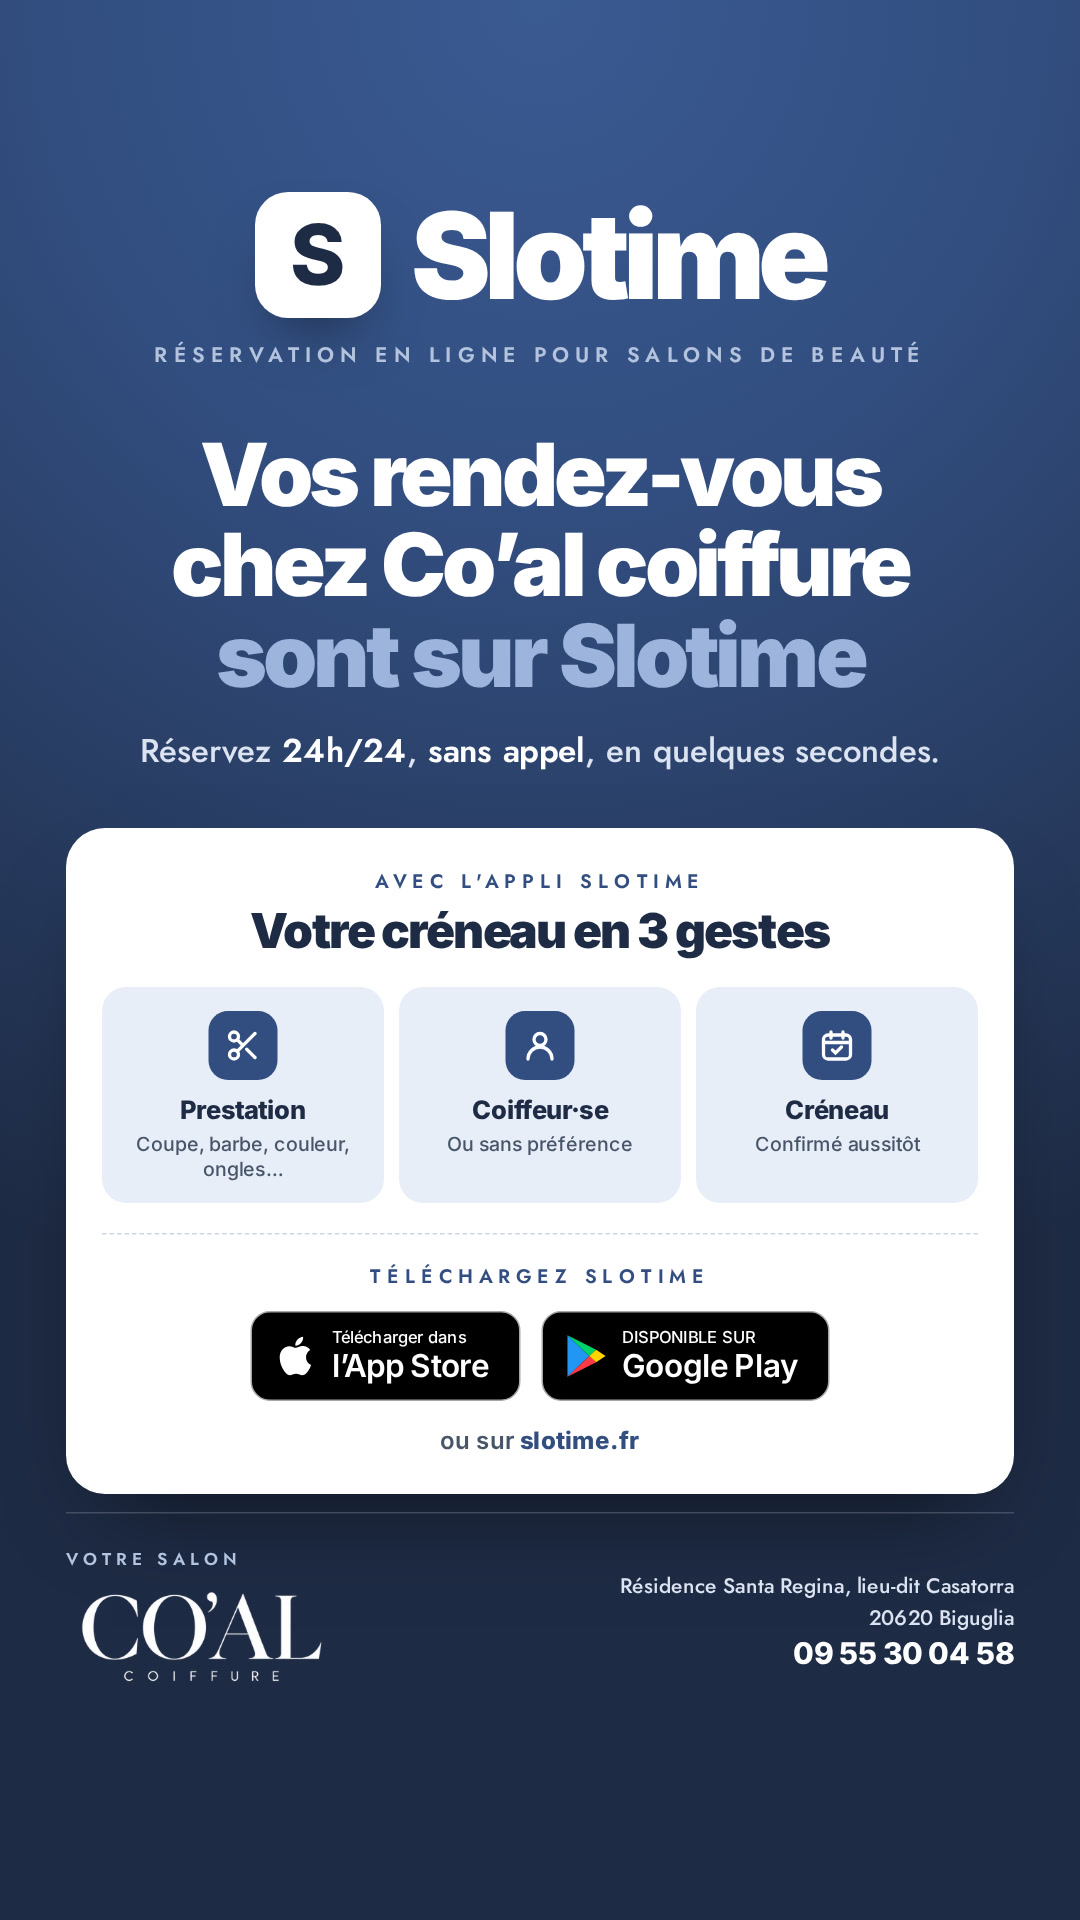
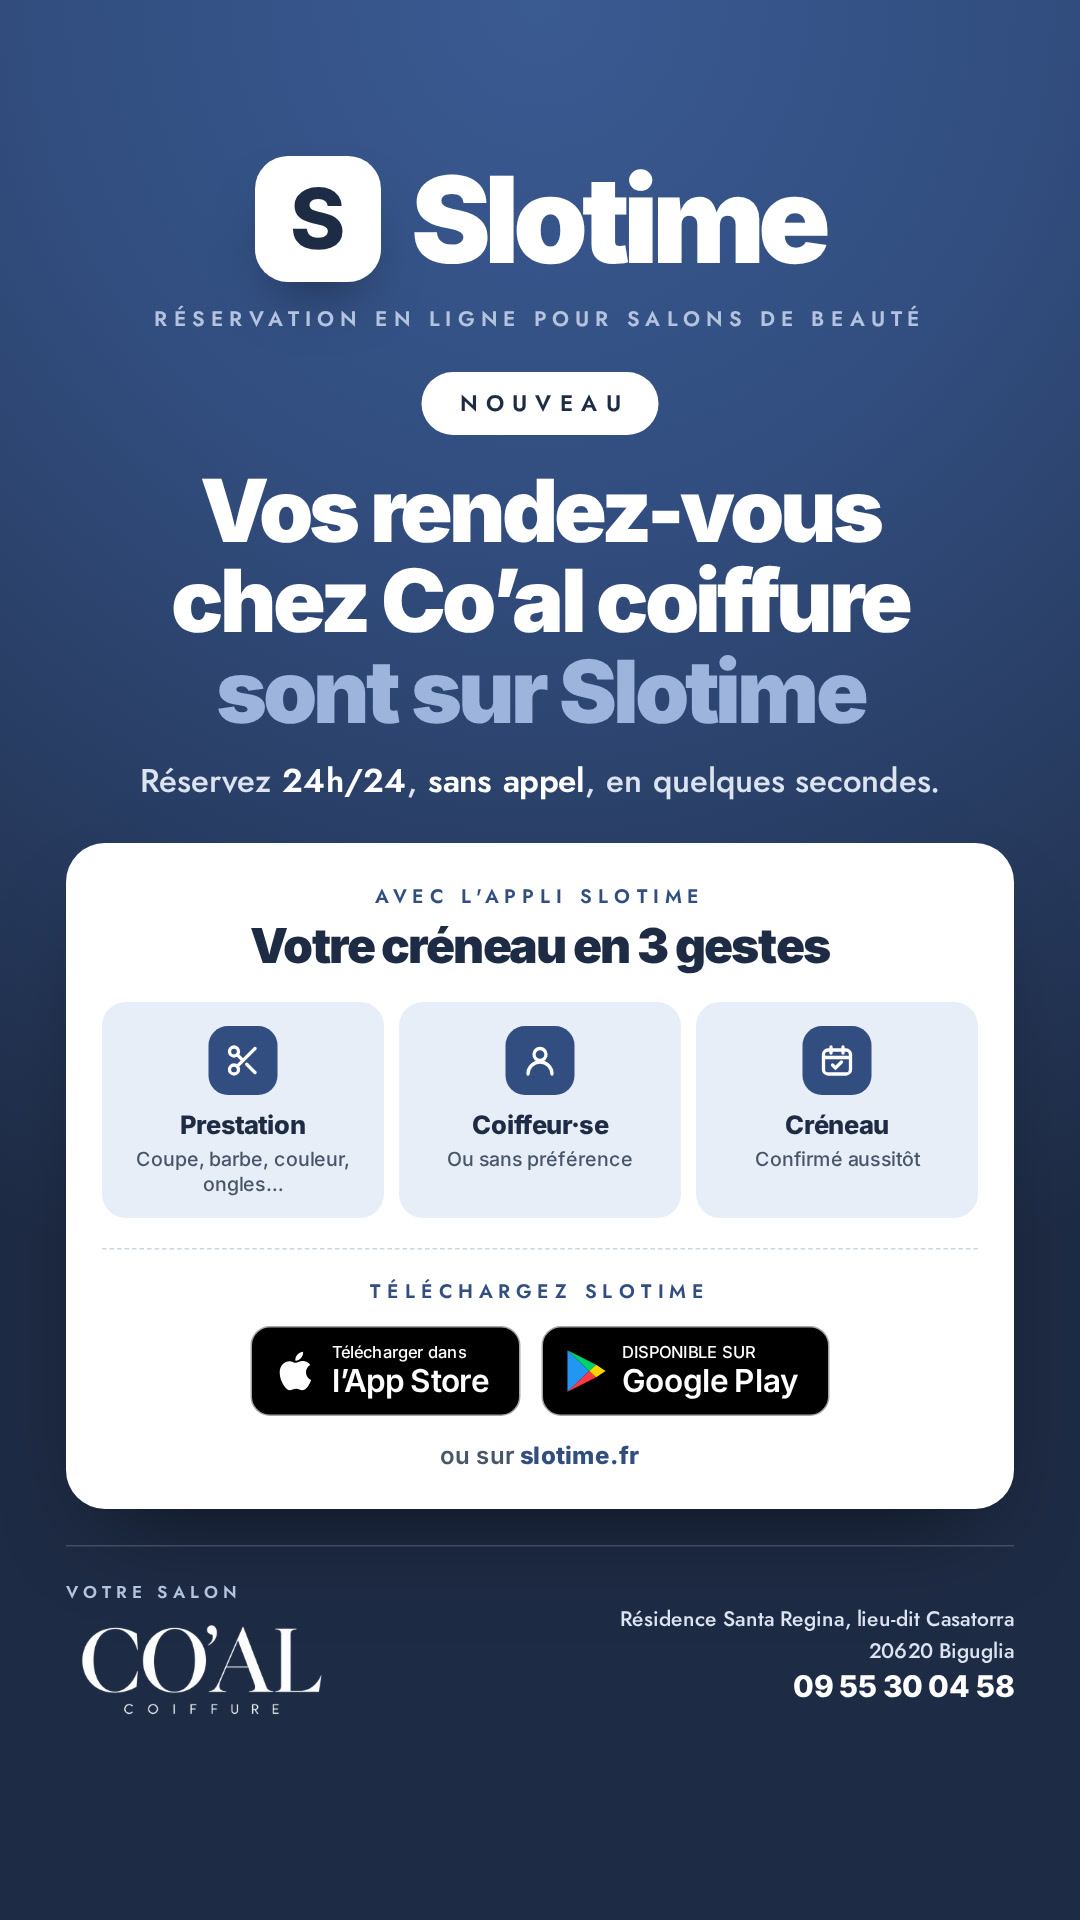
Story Slotime × Co'al coiffure : ajoute la mention « Nouveau »
Claude-Session: https://claude.ai/code/session_01V5jXBW6Rzco2DtZ5zGNZMp

diff --git a/slotime/story-slotime-coal-coiffure.html b/slotime/story-slotime-coal-coiffure.html
@@ -24,7 +24,7 @@
 html, body { margin: 0; background: #0F172A; }
 .poster { position: relative; width: 720px; height: 1280px; overflow: hidden; color: var(--white); font-family: var(--ui);
   background: radial-gradient(120% 70% at 50% 0%, #3A5A92 0%, var(--navy) 38%, var(--navy-d) 100%);
-  display: flex; flex-direction: column; align-items: center; text-align: center; padding: 128px 44px 0; box-sizing: border-box; }
+  display: flex; flex-direction: column; align-items: center; text-align: center; padding: 104px 44px 0; box-sizing: border-box; }
 .poster::before { content: ""; position: absolute; inset: 18px; display: none; border: 1px solid rgba(255,255,255,.18); border-radius: 18px; pointer-events: none; }
 
 .brand { display: flex; align-items: center; gap: 20px; }
@@ -32,12 +32,13 @@ html, body { margin: 0; background: #0F172A; }
 .brand b { font: 900 80px/1 var(--ui); letter-spacing: -0.055em; }
 .tagline { margin-top: 14px; font: 600 14px var(--caps); letter-spacing: .3em; text-transform: uppercase; color: var(--grey); }
 
-h1 { margin: 40px 0 0; font: 900 58px/1.04 var(--ui); letter-spacing: -0.045em; text-wrap: balance; }
+.pill { margin-top: 26px; font: 600 15px var(--caps); letter-spacing: .36em; text-transform: uppercase; padding: 10px 20px 10px 26px; background: var(--white); color: var(--navy-d); border-radius: 999px; }
+h1 { margin: 20px 0 0; font: 900 58px/1.04 var(--ui); letter-spacing: -0.045em; text-wrap: balance; }
 h1 span { color: var(--navy-l); }
-.sub { margin: 18px 0 0; font: 500 22px/1.4 var(--caps); color: var(--soft); }
+.sub { margin: 14px 0 0; font: 500 22px/1.4 var(--caps); color: var(--soft); }
 .sub b { color: var(--white); font-weight: 600; }
 
-.card { margin-top: 36px; width: 100%; background: var(--white); color: var(--slate); border-radius: 26px; padding: 26px 24px 26px; box-sizing: border-box; box-shadow: 0 30px 60px -30px rgba(0,0,0,.6); }
+.card { margin-top: 26px; width: 100%; background: var(--white); color: var(--slate); border-radius: 26px; padding: 26px 24px 26px; box-sizing: border-box; box-shadow: 0 30px 60px -30px rgba(0,0,0,.6); }
 .card .k { font: 600 13px var(--caps); letter-spacing: .3em; text-transform: uppercase; color: var(--navy); }
 .card .t { margin-top: 6px; font: 900 32px/1.1 var(--ui); letter-spacing: -0.035em; color: var(--navy-d); }
 .steps { margin: 20px 0 0; padding: 0; list-style: none; display: grid; grid-template-columns: repeat(3, 1fr); gap: 10px; }
@@ -57,7 +58,7 @@ h1 span { color: var(--navy-l); }
 .web { margin-top: 2px; font: 600 16px var(--ui); color: #475569; }
 .web b { font-weight: 800; color: var(--navy); }
 
-.foot { position: absolute; left: 44px; right: 44px; bottom: 150px; border-top: 1px solid rgba(255,255,255,.18); padding: 22px 0 0; display: flex; justify-content: space-between; align-items: center; gap: 24px; text-align: left; }
+.foot { position: absolute; left: 44px; right: 44px; bottom: 128px; border-top: 1px solid rgba(255,255,255,.18); padding: 22px 0 0; display: flex; justify-content: space-between; align-items: center; gap: 24px; text-align: left; }
 .salon { display: flex; flex-direction: column; gap: 6px; }
 .salon small { font: 600 11.5px var(--caps); letter-spacing: .3em; text-transform: uppercase; color: var(--grey); }
 .salon img { width: 180px; height: auto; mix-blend-mode: screen; display: block; }
@@ -69,6 +70,8 @@ h1 span { color: var(--navy-l); }
 <div class="poster" id="poster">
   <div class="brand"><i>S</i><b>Slotime</b></div>
   <div class="tagline">Réservation en ligne pour salons de beauté</div>
+
+  <div class="pill">Nouveau</div>
 
   <h1>Vos rendez&#8209;vous<br>chez Co’al coiffure<br><span>sont sur Slotime</span></h1>
   <p class="sub">Réservez <b>24h/24</b>, <b>sans appel</b>, en quelques secondes.</p>
